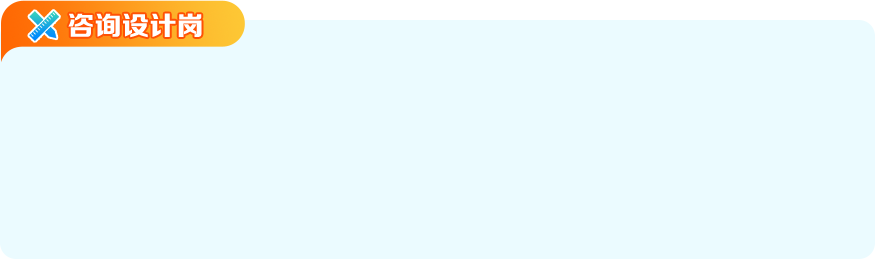
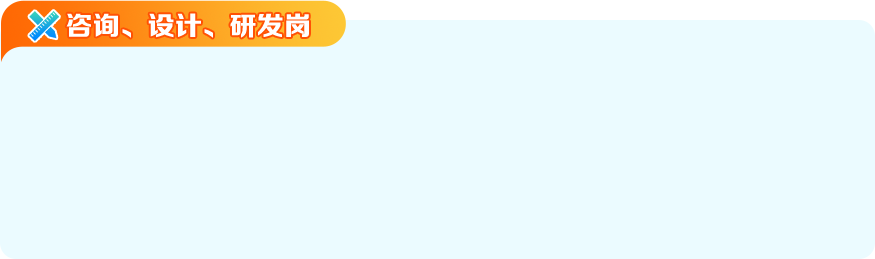
修改1

Changed region(s): [[0.0617, 0.0, 0.4011, 0.1853]]

diff --git a/m/index.html b/m/index.html
@@ -158,6 +158,46 @@
                  </div>
                  <div class="joblist">
                     <div class="job">
+                        <div class="brpic">
+                            <img src="images/s3/gw4.png"/>
+                        </div>
+                        <div class="jobs">
+                            <div>
+                            <p> 产业咨询工程师(中瑞科技)</p>
+                            </div>
+                            <div>
+                            <p> 工程咨询工程师(中瑞科技)</p>
+                            </div>
+                            <div>
+                            <p> 结构设计师(北方大区)</p>
+                            </div>
+                            <div>
+                              <p>制药工程工艺设计师(上海、重庆)</p>
+                            </div>
+                            <div>
+                            <p>  工业水处理工艺设计师(中电环境)</p>
+                            </div>
+                            <div>
+                            <p>  工业水处理研发工程师(中电环境)</p>
+                            </div>
+                            
+                            
+
+                        
+                        </div>
+                      </div>
+                     <div class="job">
+                      <div class="brpic">
+                          <img src="images/s3/gw3.png"/>
+                      </div>
+                      <div class="jobs">
+                          <div>
+                            市场营销专员（海外业务）
+                          </div>
+                       
+                      </div>
+                    </div>
+                    <div class="job">
                       <div class="brpic">
                           <img src="images/s3/gw1.png"/>
                       </div>
@@ -182,7 +222,6 @@
                           </div>
                       </div>
                     </div>
-
                     <div class="job">
                       <div class="brpic">
                           <img src="images/s3/gw2.png"/>
@@ -197,44 +236,6 @@
                           <div style="visibility:hide;border-bottom:none"></div>
                       </div>
                     </div>
-
-                    <div class="job">
-                      <div class="brpic">
-                          <img src="images/s3/gw3.png"/>
-                      </div>
-                      <div class="jobs">
-                          <div>
-                            市场专员（海外业务）
-                          </div>
-                       
-                      </div>
-                    </div>
-
-                    <div class="job">
-                      <div class="brpic">
-                          <img src="images/s3/gw4.png"/>
-                      </div>
-                      <div class="jobs">
-                          <div>
-                           <p> 结构设计师(北方大区)</p>
-                          </div>
-                          <div>
-                            <p>制药工程工艺设计师(上海、重庆)</p>
-                          </div>
-                          <div>
-                          <p>  工业水处理工艺设计师(中电环境)</p>
-                          </div>
-                          <div>
-                           <p> 产业咨询工程师(中瑞科技)</p>
-                          </div>
-                          <div>
-                           <p> 工程咨询工程师(中瑞科技)</p>
-                          </div>
-
-                       
-                      </div>
-                    </div>
-                    
                  </div>
                  <div class="titlebox">
                     <img src="images/s3/title2.png" alt="" />

diff --git a/job.html b/job.html
@@ -104,6 +104,23 @@
               </div>
             </div>
             <div class="contboxd">
+              <div class="lists4">
+                <a href="#">产业咨询工程师(中瑞科技)</a>
+                <a href="#">工程咨询工程师(中瑞科技)</a>
+                <a href="#">结构设计师(北方大区)</a>
+                <a href="#">制药工程工艺设计师(上海、重庆)</a>
+                <a href="#">工业水处理工艺设计师(中电环境)</a>
+                <a href="#">工业水处理研发工程师(中电环境)</a>
+              </div>
+              <div class="flexstyle">
+                <div class="lists3">
+                  <a href="#">市场营销专员(海外业务)</a>
+                </div>
+                <div class="lists2">
+                  <a href="#">财务专员</a>
+                  <a href="#">商务/造价工程师</a>
+                </div>
+              </div>
               <div class="lists">
                 <a href="#">暖通系统工程师</a>
                 <a href="#">电气系统工程师</a>
@@ -112,25 +129,6 @@
                 <a href="#">装修系统工程师</a>
                 <a href="#">动力工程师</a>
                 <a href="#">质量工程师</a>
-              </div>
-              <div class="flexstyle">
-                <div class="lists2">
-                  <a href="#">财务专员</a>
-                  <a href="#">商务/造价工程师</a>
-                </div>
-                <div class="lists3">
-                  <a href="#">市场专员(海外业务)</a>
-                </div>
-              </div>
-              <div class="lists4">
-                <a href="#">结构设计师(北方大区)</a>
-                <a href="#">制药工程工艺设计师(上海、重庆)</a>
-                <a href="#">工业水处理工艺设计师(中电环境)</a>
-                <a href="#">产业咨询工程师(中瑞科技)</a>
-                <a href="#">工程咨询工程师(中瑞科技)</a>
-              </div>
-              <div class="lists5">
-                <a href="#">工业水处理研发工程师(中电环境)</a>
               </div>
             </div>
             <div class="title tops">

diff --git a/m/css/style.css b/m/css/style.css
@@ -531,22 +531,26 @@ body {
 .joblist{
     margin-bottom: .2rem;
 }
-.joblist .job:nth-child(3) div{
-    flex: 0 0 40%;
+.joblist .job:nth-child(2) div{
+    flex: 0 0 50%;
 }
-.joblist .job:nth-child(4){
+.joblist .job:nth-child(2) img{
+   width: 2.215rem;
+}
+.joblist .job:nth-child(1){
     flex-wrap: wrap;
    justify-content: flex-start;
 }
-.joblist .job:nth-child(4) div{
+.joblist .job:nth-child(1) div{
     flex: 0 0 100%;
     border-bottom: none;
     position: relative;
 }
-.joblist .job:nth-child(4) img{
+.joblist .job:nth-child(1) img{
     top: -.7rem;
+    width: 3.33rem;
 }
-.joblist .job:nth-child(4) p{
+.joblist .job:nth-child(1) p{
     padding-bottom: .1rem;
     border-bottom: solid .01rem #0142c2;
     display: inline-block;

diff --git a/benefits.html b/benefits.html
@@ -108,11 +108,11 @@
             <div class="contboxd">
               <img src="images/benefits/content1.png" alt="" />
             </div>
-            <div class="title">
+            <div class="title" style="margin-top: 20px">
               <img src="images/benefits/title2.png" />
             </div>
             <div class="contboxd">
-              <img src="images/benefits/content1.png" alt="" />
+              <img src="images/benefits/content2.png" alt="" />
             </div>
           </div>
         </div>
